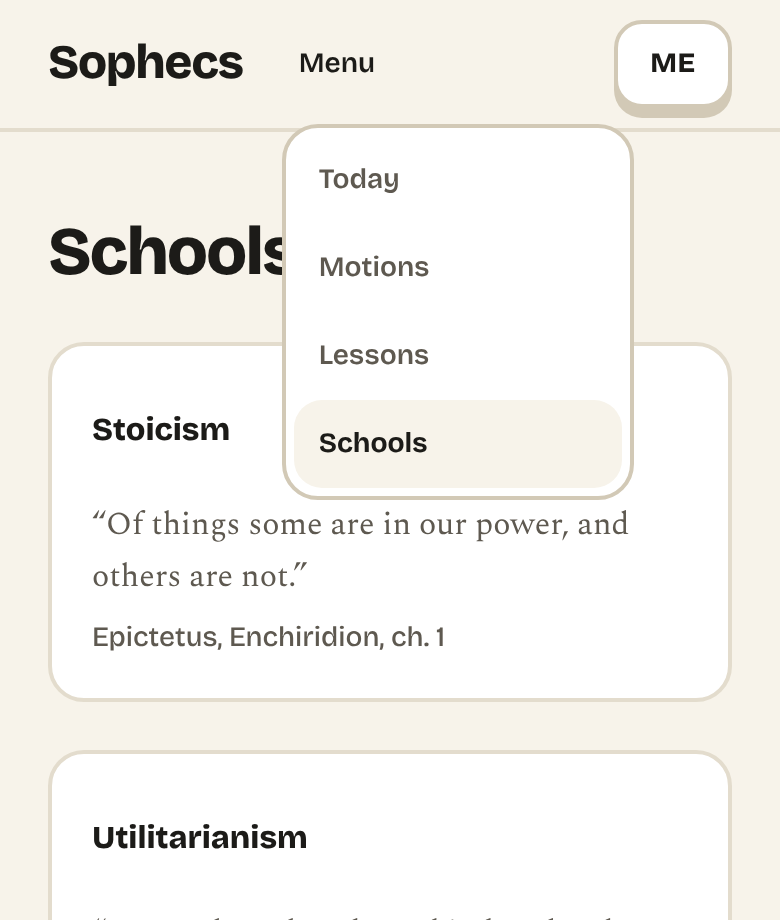
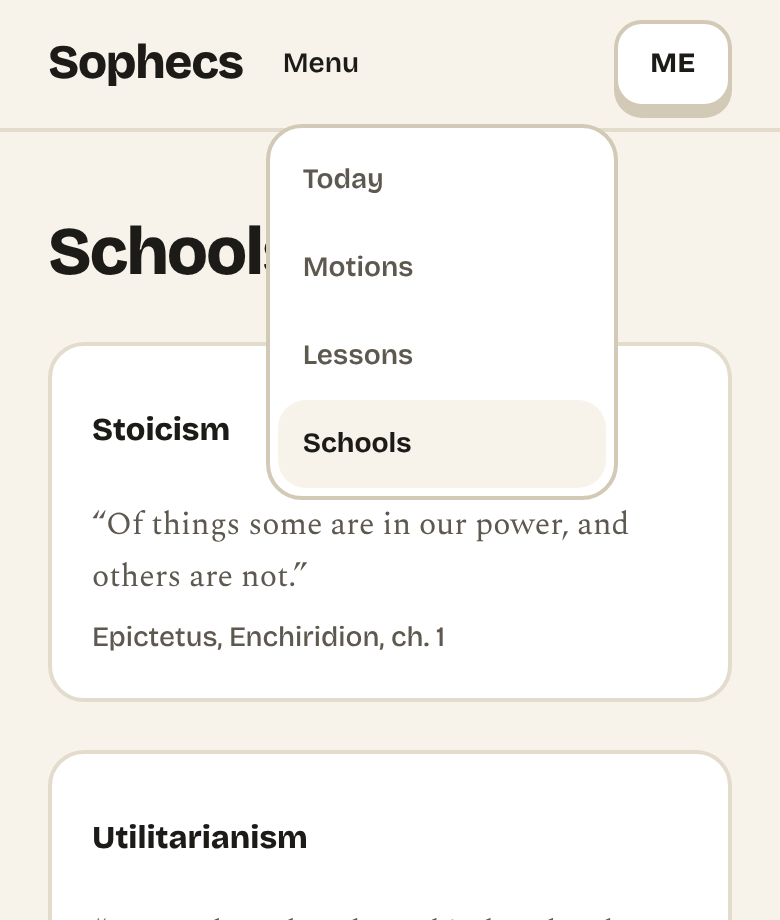
Navigation: the third review's findings
- The header keeps to one line from 360 pixels up with nothing pushed
  sideways (narrower gaps and button padding below sm; below 360 the
  quiz button wraps), and "How it works" no longer wraps at 640 to 659.
  The three 390-pixel screenshots retaken; the 1280 ones are unchanged.
- Menu and Me close each other, so only one is open at a time.
- Tests pin which nav-routes address each link takes, whole; the
  old-address guard reads template literals too; /debate/rubric keeps
  its view count and /how-it-works has none; the header's upkeep on a
  page change and its one-menu rule; /how-it-works' outline in full;
  the Exemplars link under its card.
- The decision record gives everything a flag-off build sends
  differently, and the stylesheet's growth measured again; section 13
  marks new only what is new.

Claude-Session: https://claude.ai/code/session_01GvBaXZx1cPn5VLqZ4u2xaU

diff --git a/tests/nav-six.test.tsx b/tests/nav-six.test.tsx
@@ -47,6 +47,14 @@ function links(html: string): [string, string, string][] {
     (/(?:^|\s)class="([^"]*)"/.exec(m[1])?.[1] ?? "").replace(/&amp;/g, "&"),
   ]);
 }
+// A source file without its comments, which name the old addresses freely.
+function code(file: string): string {
+  return fs
+    .readFileSync(file, "utf8")
+    .replace(/\/\*[\s\S]*?\*\//g, "")
+    .replace(/(^|[^:"'`])\/\/[^\n]*/g, "$1")
+    .replace(/\{\s*\}/g, "");
+}
 const SIGNED_IN_ONLY = "[html[data-auth=in]_&]:";
 const shownSignedOut = (cls: string) => !/(^|\s)hidden(\s|$)/.test(cls);
 const shownSignedIn = (cls: string) =>
@@ -156,7 +164,7 @@ describe("a build without SIX_SCHOOLS", () => {
         const f = path.join(dir, e.name);
         if (e.isDirectory()) walk(f);
         else if (/\.tsx?$/.test(e.name)) {
-          const n = (fs.readFileSync(f, "utf8").match(/["'](?:\/debate\/rubric|\/method|\/table)["'#]/g) ?? []).length;
+          const n = (code(f).match(/["'`](?:\/debate\/rubric|\/method|\/table)["'`#]/g) ?? []).length;
           if (n) found[path.relative(process.cwd(), f)] = n;
         }
       }
@@ -168,6 +176,58 @@ describe("a build without SIX_SCHOOLS", () => {
       "src/components/nav/SiteFooter.tsx": 2,
       "src/app/method/page.tsx": 1,
     });
+  });
+
+  // Each link that leads to the method, the rubric or the table takes its
+  // address whole from src/lib/nav-routes.ts, the one it was written for:
+  // the right constant, nothing added to it, no local stand-in.
+  it("takes each moved page's address from nav-routes, the right one for each link", () => {
+    const NAMES = "METHOD_HREF|RUBRIC_HREF|SAMPLES_HREF|COUNTERPART_RULES_HREF|TABLE_HREF";
+    const found: Record<string, string[]> = {};
+    const walk = (dir: string) => {
+      for (const e of fs.readdirSync(dir, { withFileTypes: true })) {
+        const f = path.join(dir, e.name);
+        if (e.isDirectory()) walk(f);
+        else if (/\.tsx?$/.test(e.name) && !f.endsWith(path.join("lib", "nav-routes.ts"))) {
+          const src = code(f);
+          expect(src, f).not.toMatch(new RegExp(`(?:const|let|var|function)\\s+(?:${NAMES})\\b`));
+          const uses = [...src.matchAll(new RegExp(`(?:${NAMES})`, "g"))].length;
+          const hrefs = [...src.matchAll(/href=\{([^}]*)\}/g)].map((m) => m[1]).filter((x) => new RegExp(NAMES).test(x));
+          const imports = [...src.matchAll(new RegExp(`import \\{[^}]*\\} from "@/lib/nav-routes"`, "g"))].join("");
+          if (hrefs.length || uses) found[path.relative(process.cwd(), f)] = [...hrefs, `uses ${uses - (imports.match(new RegExp(NAMES, "g"))?.length ?? 0)}`];
+        }
+      }
+    };
+    walk(path.join(process.cwd(), "src"));
+    expect(found).toEqual({
+      "src/app/styleguide/page.tsx": ["RUBRIC_HREF", "uses 1"],
+      "src/components/counterpart/ExchangeView.tsx": ["COUNTERPART_RULES_HREF", "uses 1"],
+      "src/components/daily-path/AxisPanel.tsx": ["RUBRIC_HREF", "uses 1"],
+      "src/components/debate/JudgingPausedNotice.tsx": ["METHOD_HREF", "uses 1"],
+      "src/components/debate/Verdict.tsx": ["RUBRIC_HREF", "TABLE_HREF", "RUBRIC_HREF", "uses 3"],
+      "src/components/nav/SiteFooter.tsx": ["RUBRIC_HREF", "uses 1"],
+      "src/components/table/SchoolTable.tsx": ["SAMPLES_HREF", "uses 1"],
+      "src/components/today/TodayCards.tsx": ["SAMPLES_HREF", "TABLE_HREF", "uses 2"],
+      "src/components/today/TodayClient.tsx": ["METHOD_HREF", "uses 1"],
+    });
+  });
+
+  it("counts a view of /debate/rubric as it did, and none of /how-it-works", async () => {
+    const marked = async (flag: string, page: string) => {
+      vi.resetModules();
+      vi.stubEnv("SIX_SCHOOLS", flag);
+      vi.doMock("@/components/debate/RubricViewTracker", () => ({
+        RubricViewTracker: () => createElement("i", { "data-tracker": "rubric_viewed" }),
+      }));
+      try {
+        const mod = await import(page);
+        return renderToStaticMarkup(createElement(mod.default)).includes('data-tracker="rubric_viewed"');
+      } finally {
+        vi.doUnmock("@/components/debate/RubricViewTracker");
+      }
+    };
+    expect(await marked("0", "../src/app/debate/rubric/page")).toBe(true);
+    expect(await marked("1", "../src/app/how-it-works/page")).toBe(false);
   });
 
   it("links where it always has, and lists the old pages in the sitemap", async () => {
@@ -322,6 +382,20 @@ describe("a build with SIX_SCHOOLS=1", () => {
     expect(urls).not.toContain("https://sophecs.com/debate/rubric");
   });
 
+  // Effects and handlers do not run in a static render; these were checked
+  // in a browser, and are pinned here so that they cannot quietly go.
+  it("re-reads the session mark on each page change, and opens one menu at a time", () => {
+    const src = code(path.join(process.cwd(), "src", "components", "nav", "SiteHeaderSix.tsx"));
+    expect(src).toMatch(
+      /useEffect\(\(\) => \{\s*menu\.current\?\.removeAttribute\("open"\);\s*me\.current\?\.removeAttribute\("open"\);\s*syncAuthHint\(\);\s*\}, \[pathname\]\);/
+    );
+    expect(src).toContain('<details ref={menu} onToggle={() => closeOther(menu, me)}');
+    expect(src).toContain('<details ref={me} onToggle={() => closeOther(me, menu)}');
+    expect(src).toContain("onClick={(e) => closeOnLink(e, menu)}");
+    expect(src).toContain("onClick={(e) => closeOnLink(e, me)}");
+    expect(src).toMatch(/await createClient\(\)\.auth\.signOut\(\);\s*document\.documentElement\.removeAttribute\("data-auth"\);/);
+  });
+
   it("shows Take the quiz only signed out, and the Me menu only signed in", async () => {
     const { header } = await load("1");
     const html = renderToStaticMarkup(createElement(header.SiteHeader)).replace(/&amp;/g, "&");
@@ -345,11 +419,21 @@ describe("a build with SIX_SCHOOLS=1", () => {
     const levels = [...html.matchAll(/<h([1-6])[^>]*>(.*?)<\/h\1>/g)].map(
       (m) => `h${m[1]} ${m[2].replace(/<[^>]*>/g, "")}`
     );
-    const at = (title: string) => levels.findIndex((h) => h.slice(3) === title);
-    for (const title of ["How the judge works", "How this was judged", "Counterpart rules", "Sample accounts"])
-      expect(levels[at(title)]).toBe(`h2 ${title}`);
-    expect(levels[at("Known limitations")]).toBe("h3 Known limitations");
-    expect(levels[at("What counts as faithful")]).toBe("h3 What counts as faithful");
+    expect(levels).toEqual([
+      "h1 How it works",
+      "h2 How the judge works",
+      "h3 Known limitations",
+      "h2 How this was judged",
+      "h3 Fidelity",
+      "h3 Rigor",
+      "h3 Engagement",
+      "h3 What counts as faithful",
+      "h4 Stoicism",
+      "h4 Utilitarianism",
+      "h4 Virtue Ethics",
+      "h2 Counterpart rules",
+      "h2 Sample accounts",
+    ]);
     // The contents line links each section, by the id each has.
     const contents = /<nav aria-label="On this page"[^>]*>(.*?)<\/nav>/.exec(html)![1];
     const targets = [...contents.matchAll(/href="#([^"]+)"/g)].map((m) => m[1]);
@@ -393,6 +477,8 @@ describe("a build with SIX_SCHOOLS=1", () => {
       expect.stringContaining("self-start"),
     ]);
     expect(html).toContain('aria-label="Exemplars: The opaque benefit"');
+    // Under the card, not beside it: each item stacks its two links.
+    expect(html.match(/<li class="flex flex-col">/g)).toHaveLength(2);
     // Never nested: no <a> opens before the card's link closes.
     for (const li of html.split("<li").slice(1)) {
       const first = li.indexOf("</a>");

diff --git a/src/components/nav/SiteHeaderSix.tsx b/src/components/nav/SiteHeaderSix.tsx
@@ -100,7 +100,7 @@ function BarLink({
     <Link
       href={href}
       aria-current={active ? "page" : undefined}
-      className={`${visibility} min-h-11 items-center rounded-chunky border-2 px-3 text-sm font-semibold ${
+      className={`${visibility} min-h-11 items-center whitespace-nowrap rounded-chunky border-2 px-2 text-sm font-semibold md:px-3 ${
         active ? "border-rule-strong bg-surface text-ink" : "border-transparent text-ink-mid hover:text-ink"
       }`}
     >
@@ -132,6 +132,14 @@ export function SiteHeaderSix() {
     if ((e.target as HTMLElement).closest("a")) menuRef.current?.removeAttribute("open");
   }
 
+  // One menu open at a time: below sm, signed in, Me would open over Menu.
+  function closeOther(
+    opened: React.RefObject<HTMLDetailsElement | null>,
+    other: React.RefObject<HTMLDetailsElement | null>
+  ) {
+    if (opened.current?.open) other.current?.removeAttribute("open");
+  }
+
   async function signOut() {
     // Loaded on the click, not with the header: the Supabase client is
     // ~90 KB that no page should carry for a button most visits never
@@ -146,7 +154,12 @@ export function SiteHeaderSix() {
 
   return (
     <header className="border-b-2 border-rule" data-print="hide">
-      <div className="mx-auto flex min-h-16 max-w-ui items-center gap-5 px-6 py-2">
+      {/* Narrower gaps below sm, so "Take the quiz" stays on one line from
+          the design's 360-pixel phone width up (below it, it wraps rather
+          than push the page sideways); narrower links and gaps from sm to
+          md, so
+          "How it works" stays on one line at 640. */}
+      <div className="mx-auto flex min-h-16 max-w-ui items-center gap-3 px-6 py-2 sm:gap-4 md:gap-5">
         <Link href="/" className={`inline-flex ${WORDMARK} ${OUT_INLINE}`}>
           Sophecs
         </Link>
@@ -156,7 +169,7 @@ export function SiteHeaderSix() {
 
         {/* Below sm the four links collapse into one disclosure, as they
             did before; the button at the right stays beside it. */}
-        <details ref={menu} className="relative sm:hidden">
+        <details ref={menu} onToggle={() => closeOther(menu, me)} className="relative sm:hidden">
           <summary className="flex min-h-11 cursor-pointer list-none items-center rounded-chunky px-2 text-sm font-semibold text-ink-mid marker:hidden hover:text-ink [&::-webkit-details-marker]:hidden">
             Menu
           </summary>
@@ -191,13 +204,13 @@ export function SiteHeaderSix() {
         <div className="ml-auto">
           <Link
             href="/quiz"
-            className={`chunky inline-flex min-h-11 items-center rounded-chunky bg-ink px-4 text-sm font-extrabold tracking-wide uppercase text-paper ${OUT_INLINE}`}
+            className={`chunky inline-flex min-h-11 items-center rounded-chunky bg-ink px-3 min-[360px]:whitespace-nowrap text-sm font-extrabold tracking-wide uppercase text-paper sm:px-4 ${OUT_INLINE}`}
             style={shade("var(--color-rule-strong)")}
           >
             Take the quiz
           </Link>
 
-          <details ref={me} className={`relative ${IN_BLOCK}`}>
+          <details ref={me} onToggle={() => closeOther(me, menu)} className={`relative ${IN_BLOCK}`}>
             <summary
               className="chunky flex min-h-11 cursor-pointer list-none items-center rounded-chunky border-2 border-rule-strong bg-surface px-4 text-sm font-extrabold tracking-wide uppercase text-ink marker:hidden [&::-webkit-details-marker]:hidden"
               style={shade("var(--color-rule-strong)")}

diff --git a/docs/decisions.md b/docs/decisions.md
@@ -4715,6 +4715,11 @@ Choices made where the instruction left room, each his to change:
 - **"Debate" to "Motions"** in the header, the footer and the two debate
   pages' titles; the footer's About column and its disclosure link point
   at the merged page on a flag-on build.
+- **Widths.** The header keeps to one line from 360 pixels, the
+  design's phone width (`design/layout.md`), up, with nothing pushed
+  sideways; below 360 the quiz button wraps. Between 640 and 768 the
+  bar's links and gaps are a little narrower, so "How it works" stays on
+  one line. Only one of Menu and Me is open at a time.
 - **Links go to the new addresses directly.** On a flag-on build every
   link inside the site that led to `/method`, `/debate/rubric` or
   `/table` leads to `/how-it-works`, its anchors, or `/schools`
@@ -4727,14 +4732,25 @@ Choices made where the instruction left room, each his to change:
   `-code-verifier` cookie a half-finished sign-in leaves, so a reader who
   abandoned a sign-in is not shown the signed-in header.
 - **The flag-off bundle.** The flag-off build's markup is pinned by
-  fixtures taken from main (`tests/nav-six-flag-off/`).
-  Its JavaScript is not byte for byte main's. The root layout's script,
-  which every page loads, grows by 1,743 bytes (563 compressed): the
-  header picks its version at build time, but what the six-school
-  header imports still comes along unused, namely the published three's
-  names and colours and the session-cookie test. No draft school is
-  among it (`check:bundle` passes). The stylesheet grows too, by
-  387 bytes (62 compressed), seven rules for classes no flag-off page
-  uses, since Tailwind writes a rule for every class it finds in the
-  source, whichever build uses it. Measured on flag-off builds of
-  main at 901e3a4 and of this branch.
+  fixtures taken from main (`tests/nav-six-flag-off/`). What it sends is
+  not byte for byte main's:
+  - The root layout's script, which every page loads, grows by 1,743
+    bytes (about 560 compressed): the header picks its version at build
+    time, but what the six-school header imports still comes along
+    unused, namely the published three's names and colours and the
+    session-cookie test.
+  - Four page scripts grow by 84 to 117 bytes each (`/today`, a debate,
+    the chunk the debate and revise pages share, `/styleguide/arena`),
+    where `src/lib/nav-routes.ts` is a module of its own.
+  - Each page's HTML is 41 to 65 bytes longer, in the inline data React
+    reads (the layout's unused flag and head, the footer's fragment); the
+    markup itself is the same.
+  - `_buildManifest.js` lists the two rewrites, so the addresses
+    `/schools` and `/how-it-works` are in a public file no page loads.
+  - The stylesheet grows by 684 bytes (103 compressed): rules for
+    classes no flag-off page uses, since Tailwind writes a rule for
+    every class it finds in the source, whichever build uses it.
+
+  No draft school is among any of it (`check:bundle` passes). Measured
+  on flag-off builds of main at 901e3a4 and of this branch; the page
+  scripts and the HTML by the third review.

diff --git a/docs/daily-path-copy.md b/docs/daily-path-copy.md
@@ -577,14 +577,15 @@ quiz`, or `Me` and its menu) stay beside it.
 ### How it works (`/how-it-works`)
 
 The judge's method page (`/method`) and the rubric (`/debate/rubric`)
-merged, their text unchanged. New: the page title, the heading and the
-contents line.
+merged, their text unchanged. New: the description and the contents
+line. The title and the heading are his page name, the title in the
+site's pattern, as for `/schools`.
 
 | Element | Copy |
 |---|---|
-| Page title (new) | `How it works · Sophecs` |
+| Page title | `How it works · Sophecs` |
 | Description (new) | `What the judge scores, the criteria it is given, and what a score does and does not mean.` |
-| Heading (new) | `How it works` |
+| Heading | `How it works` |
 | Contents (new), linking to each section; read aloud as `On this page` (new) | `How the judge works` · `How this was judged` · `Counterpart rules` · `Sample accounts` |
 | Sections, with their anchors | `How the judge works` (`#judge`), with `Known limitations`; `How this was judged` (`#rubric`), with its three axes and `What counts as faithful`; `Counterpart rules` (`#counterpart`); `Sample accounts` (`#samples`) |
 | Foot | `Questions or corrections: arthur.rzhang@gmail.com` and `Back to the motions`, as on the two pages now |

diff --git a/docs/gate4.md b/docs/gate4.md
@@ -221,10 +221,9 @@ the new-schools run 16 or 23 of 25, depending on item 3.
     Samples for the new three need new argument banks, which are content.
     Rule whether the run should cover them.
 14. **The navigation's copy and screenshots** (#99). The copy is
-    `docs/daily-path-copy.md`, section 13, with what is new marked:
-    `/schools`' description; `/how-it-works`' title, description and
-    heading, its contents line and that line's spoken name "On this
-    page"; and the Exemplars link. The choices made where your instruction left room are in
+    `docs/daily-path-copy.md`, section 13, with what is new marked: the
+    two pages' descriptions; `/how-it-works`' contents line and that
+    line's spoken name "On this page"; and the Exemplars link. The choices made where your instruction left room are in
     `docs/decisions.md`, "Navigation for six schools, behind
     SIX_SCHOOLS": no sign-in link in the signed-out header; where each
     item under Me goes; the method page's closing sentence ("The criteria
